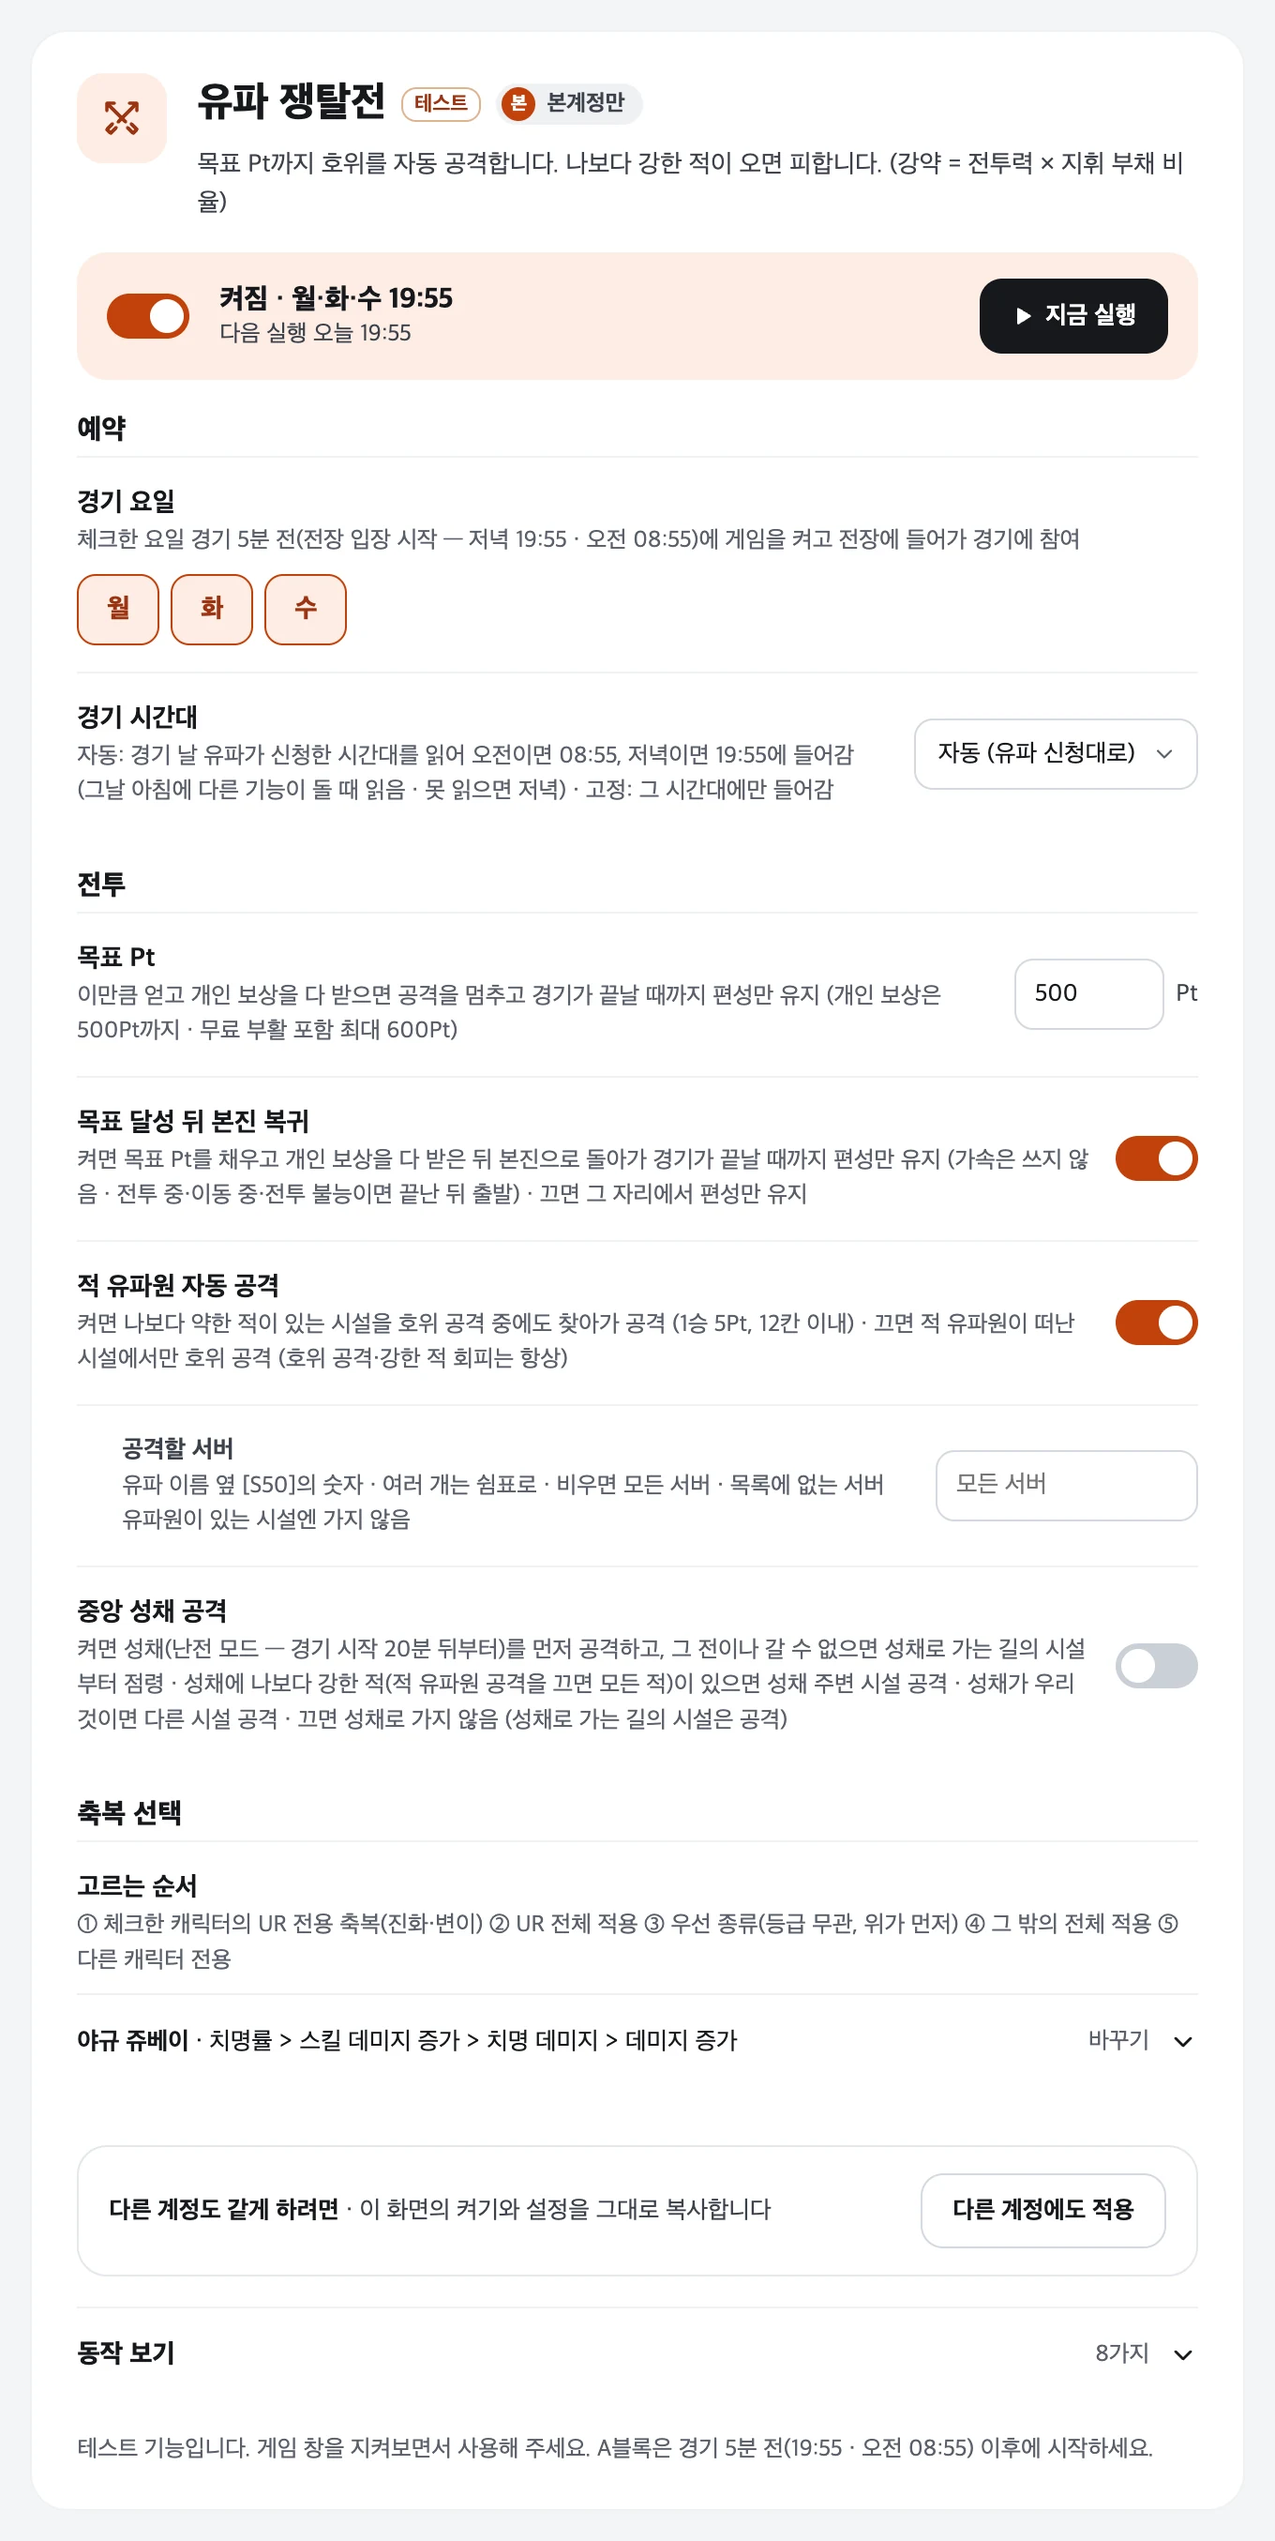
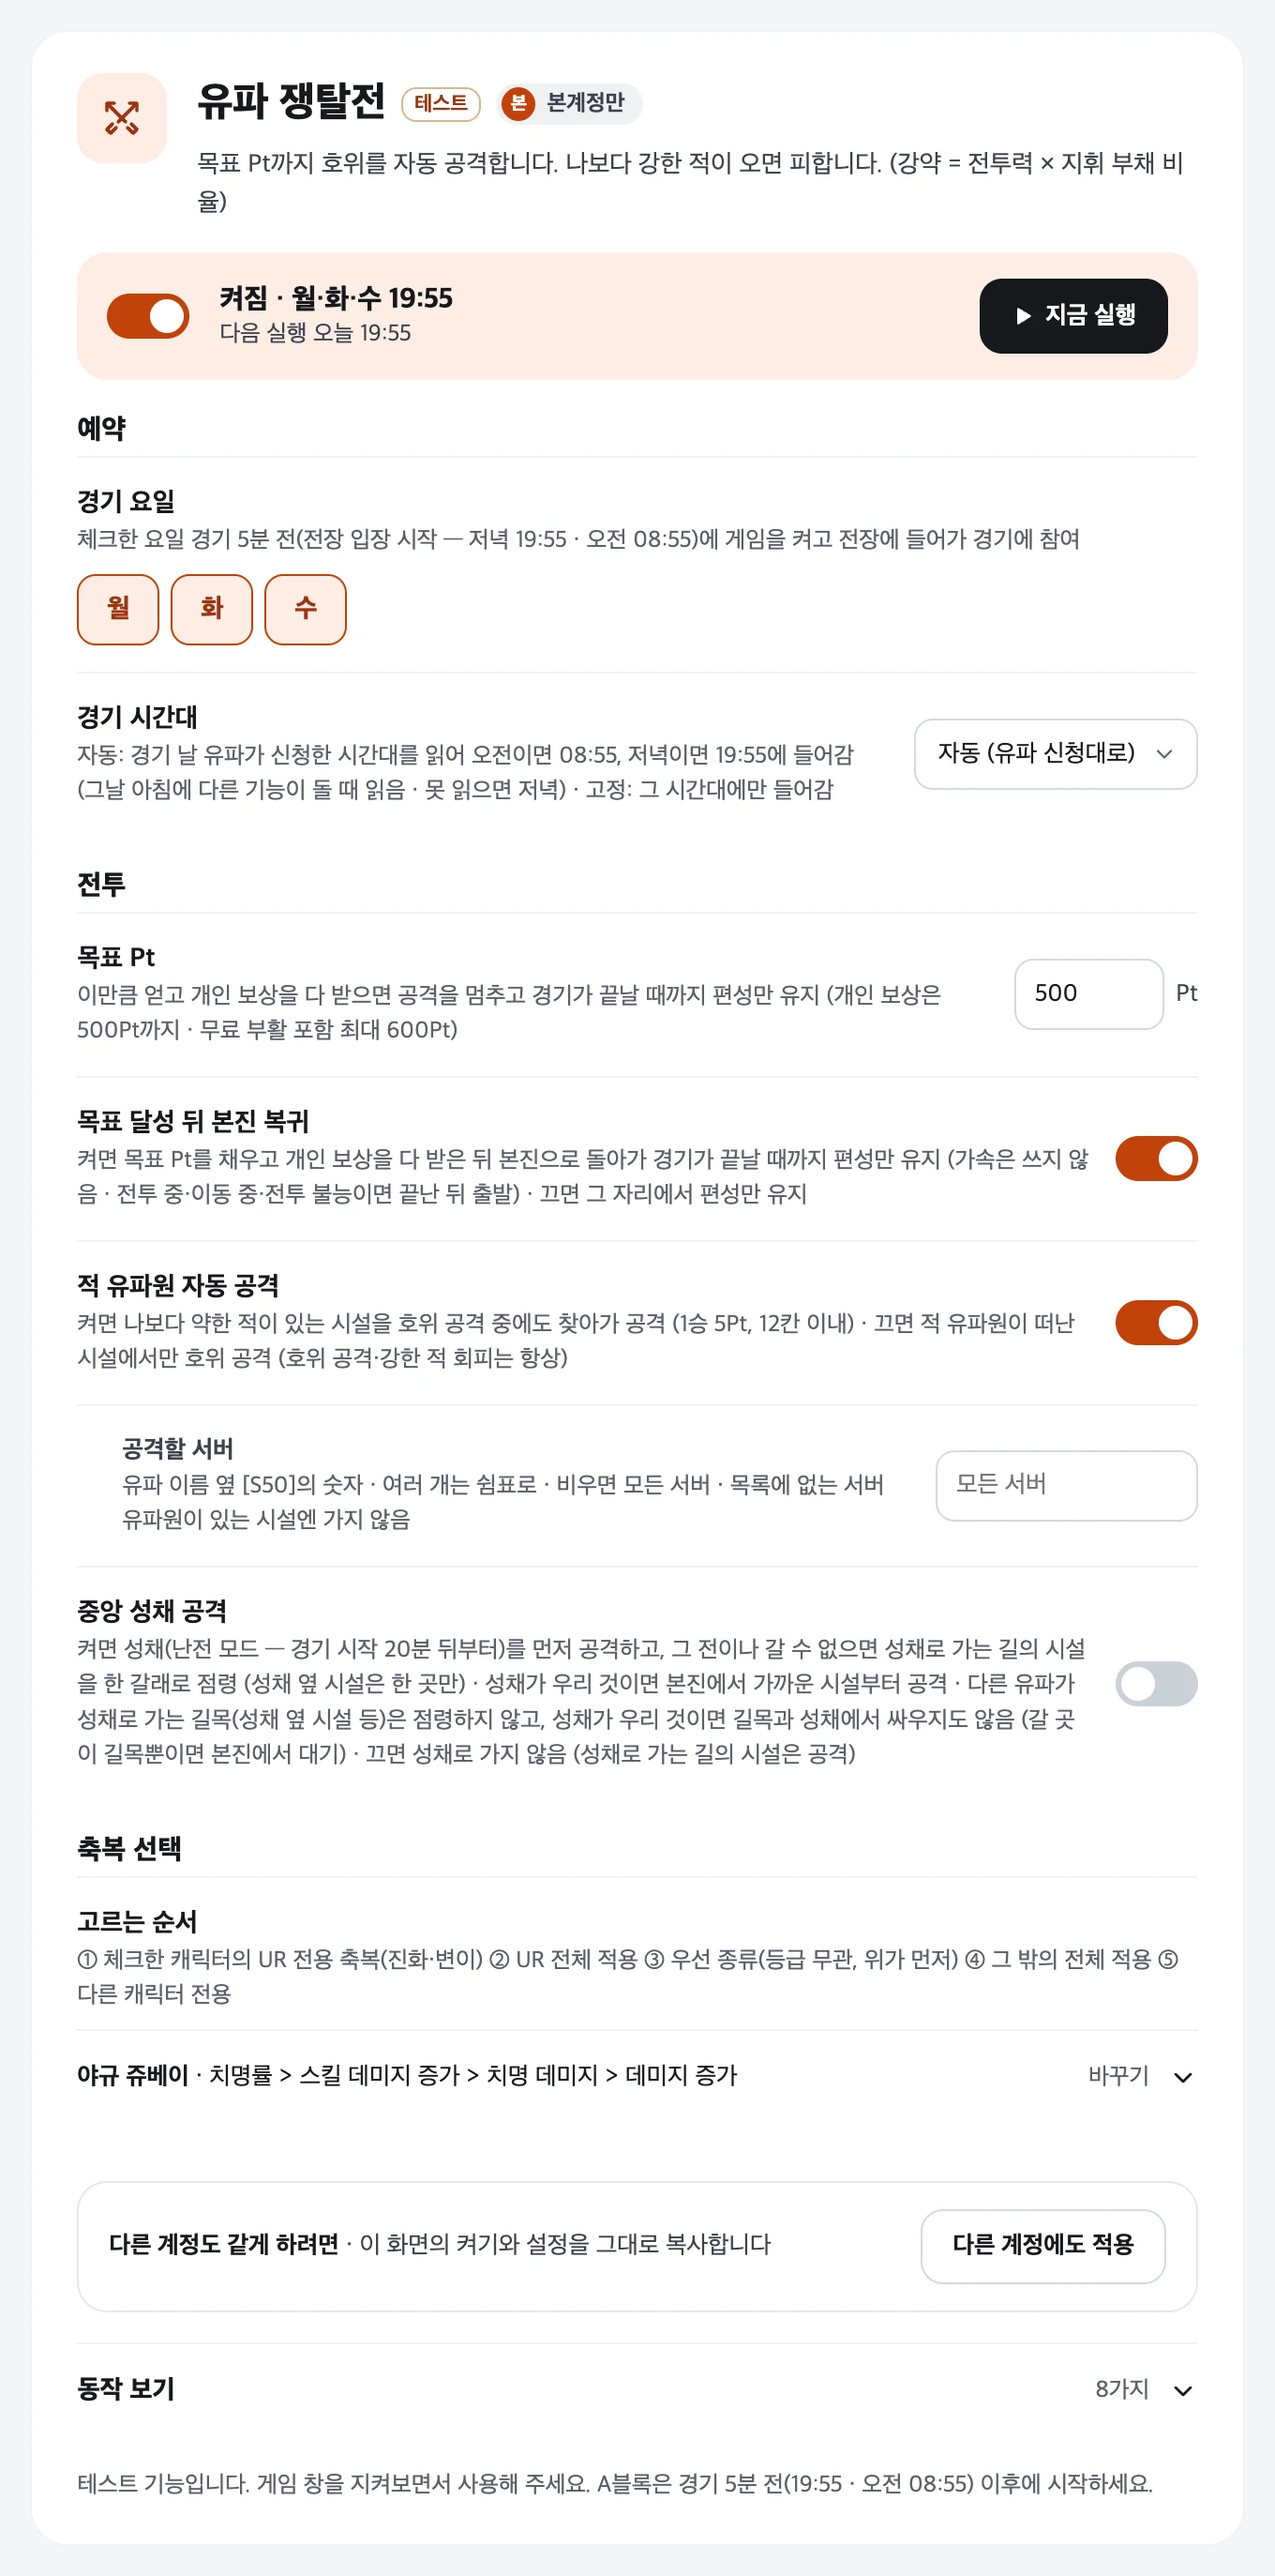
v1.5.125 홈페이지: 유파 쟁탈전 중앙 성채 공격이 다른 유파의 성채 길목을 막지 않음(성채 쪽 한 갈래·성채 옆 한 곳만, 성채가 우리 것이면 본진에서 가까운 곳부터·길목과 성채엔 안 감), 실전 확인 전 안내를 한 줄로, 설정 화면 이미지
Claude-Session: https://claude.ai/code/session_01KmZacAeoiGxHpjKwWGpkTY

diff --git a/docs/features.html b/docs/features.html
@@ -316,12 +316,12 @@
           <p>전장 입장 → 공방 편성 확정 → 호위 자동 공격·이동 → 축복 선택·개인 보상 → 부활 후 재편성 → 경기가 끝나면 메인 화면 복귀까지 자동으로 진행합니다. 유파가 오전(09:00) 경기로 신청했으면 경기 날 그걸 읽어 08:55에 들어갑니다(「경기 시간대」 자동 — 저녁·오전 고정도 가능, 학원 쟁패전·사검귀 습격도 같음).</p>
           <ul>
             <li><b>목표 Pt</b>(기본 500 = 개인 보상 전부)를 채우고 개인 보상을 다 받으면 공격을 멈추고 편성만 유지합니다.</li>
-            <li><b>목표 달성 뒤 본진 복귀</b>(기본 켬, v1.5.124부터, 전부터 쓰던 계정도 켜짐): 목표를 채우면 <b>본진으로 돌아가</b> 경기가 끝날 때까지 편성만 유지합니다. 본진으로 갈 때는 이동 가속을 쓰지 않습니다(다이아를 쓰지 않음). 전투 중이거나 이동 중이면 끝난 뒤 출발하고, 본진으로 갈 수 없으면 그 자리에 머뭅니다. 끄면 목표를 채운 그 자리에서 편성만 유지합니다. 아직 실전에서 확인하기 전이니 처음 몇 번은 게임 창을 지켜봐 주세요.</li>
+            <li><b>목표 달성 뒤 본진 복귀</b>(기본 켬, v1.5.124부터, 전부터 쓰던 계정도 켜짐): 목표를 채우면 <b>본진으로 돌아가</b> 경기가 끝날 때까지 편성만 유지합니다. 본진으로 갈 때는 이동 가속을 쓰지 않습니다(다이아를 쓰지 않음). 전투 중이거나 이동 중이면 끝난 뒤 출발하고, 본진으로 갈 수 없으면 그 자리에 머뭅니다. 끄면 목표를 채운 그 자리에서 편성만 유지합니다.</li>
             <li><b>적 유파원 자동 공격</b>: 나보다 약한 적이 있는 시설을 호위 공격 중에도 찾아가 공격하고, 강한 적은 피합니다. <b>공격할 서버</b>를 정할 수 있습니다.</li>
-            <li><b>중앙 성채 공격</b>(기본 끔): 켜면 성채 → 성채로 가는 길의 시설 순서로 공격합니다. 성채에 강한 적(적 공격을 끄면 모든 적)이 있으면 성채 주변 시설을, 성채가 우리 것이면 다른 시설을 공격합니다. 끄면 <b>성채로는 가지 않고</b>, 성채로 가는 길의 시설은 공격합니다(v1.5.116부터).</li>
+            <li><b>중앙 성채 공격</b>(기본 끔): 켜면 성채 → 성채로 가는 길의 시설 순서로 공격하되, <b>다른 유파가 성채로 가는 길목은 막지 않습니다</b>(v1.5.125부터). 성채 주인이 없거나 다른 유파 것이면 성채로 가는 길은 한 갈래만, 성채 바로 옆 시설은 한 곳만 잡고, 난전 모드(20:20)부터 성채를 공격합니다. 성채가 우리(연맹) 것이면 우리 본진에서 가까운 시설부터 공격하고, 성채 옆 시설·다른 유파가 성채로 가는 길목·성채에는 가지 않습니다(갈 곳이 길목뿐이면 가속 없이 본진으로 돌아가 기다림). 그만큼 Pt가 전보다 천천히 오를 수 있습니다. 끄면 <b>성채로는 가지 않고</b>, 성채로 가는 길의 시설은 공격합니다(v1.5.116부터).</li>
             <li><b>축복 선택</b>: 전용 축복 캐릭터와 우선 종류의 순서를 정합니다.</li>
           </ul>
-          <p class="muted small">게임에서 공방 편성을 한 번 저장해 두어야 하고, 유파가 그 주에 참가 신청되어 있어야 합니다. 아군이 시설을 빨리 점령하면 자주 옮겨 다녀 다이아가 많이 듭니다(첫 실전에서 500Pt까지 약 3,500다이아).</p>
+          <p class="muted small">게임에서 공방 편성을 한 번 저장해 두어야 하고, 유파가 그 주에 참가 신청되어 있어야 합니다. 아군이 시설을 빨리 점령하면 자주 옮겨 다녀 다이아가 많이 듭니다(첫 실전에서 500Pt까지 약 3,500다이아). 목표 달성 뒤 본진 복귀(v1.5.124)와 성채 길목을 막지 않는 동작(v1.5.125)은 아직 실전에서 확인하기 전이니 처음 몇 번은 게임 창을 지켜봐 주세요.</p>
         </div>
         <figure class="shot panel"><img loading="lazy" src="img/panel-gvg.webp" alt="유파 쟁탈전 설정 화면"></figure>
       </article>
